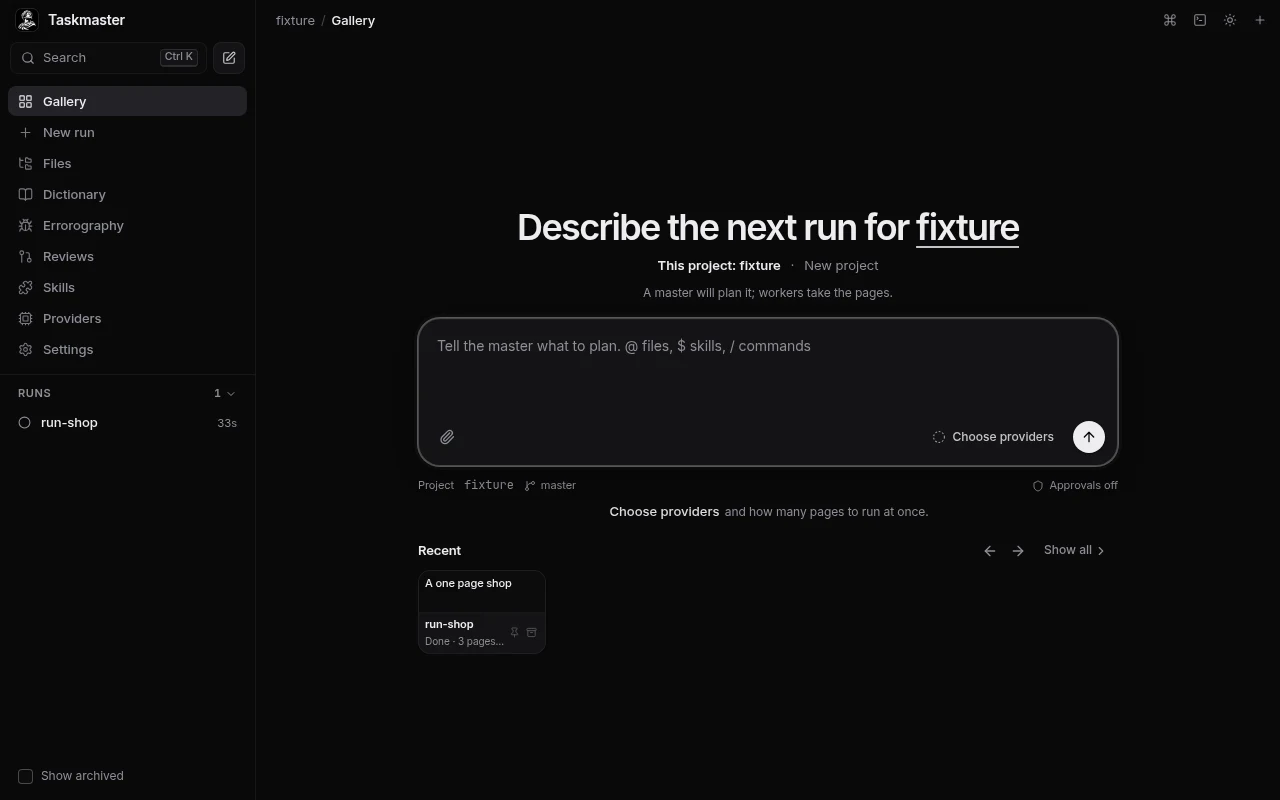
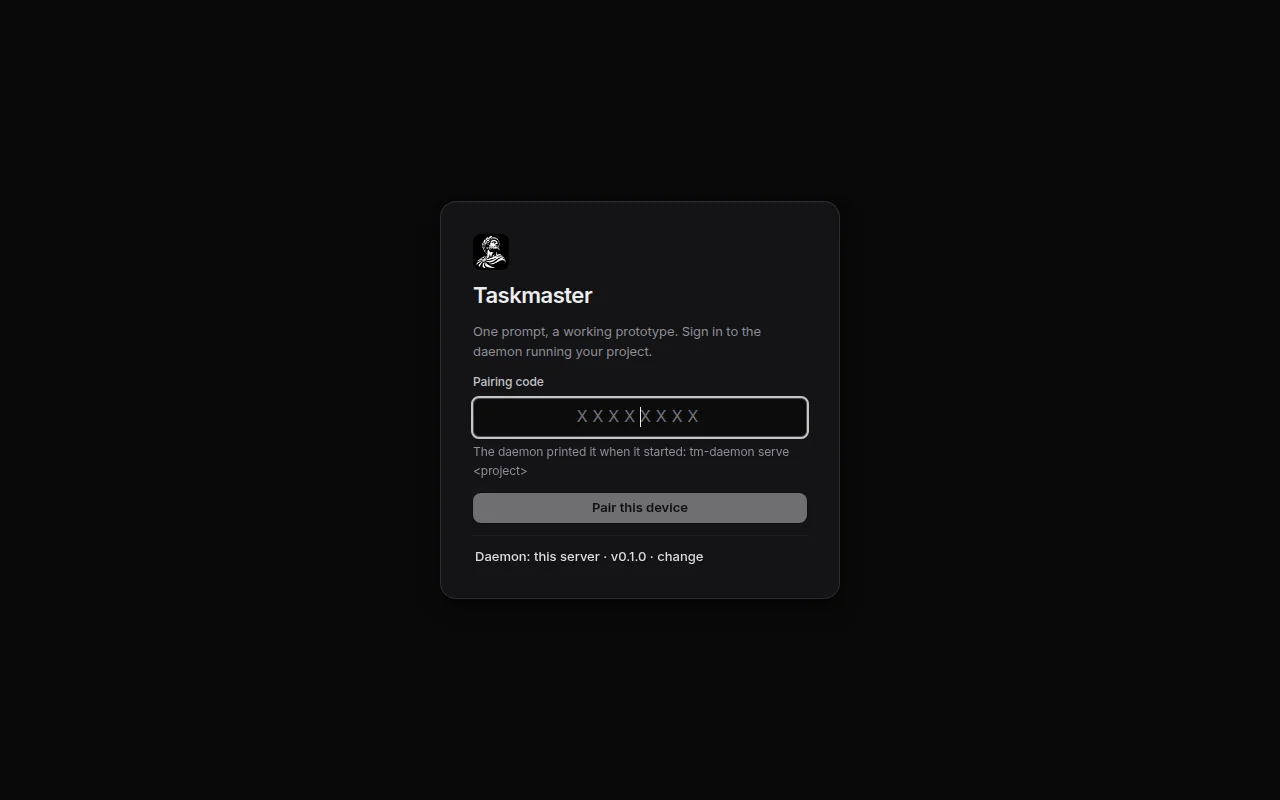
Docs: release dry run, Windows builds, current README hero
RELEASING.md documents the workflow_dispatch dry run (every desktop
target built, nothing published) and that Windows now builds: the
terminal is gated off with a clear message instead of a ConPTY backend,
and macOS is ad-hoc signed until Apple/Windows certificates are added.

README hero is a fresh screenshot of the current home screen.

diff --git a/docs/RELEASING.md b/docs/RELEASING.md
@@ -17,6 +17,14 @@ git push origin v0.2.0
 
 The version in the app comes from the tag (`v0.2.0` becomes `0.2.0`).
 
+## Dry run
+
+Run the workflow by hand (Actions > release > Run workflow) without pushing a tag. It builds
+every desktop target the same way a real release does and keeps them as workflow artifacts for a
+few days, but publishes nothing: no tag, no release, no `latest.json`. Choose the version and
+the targets (all, mac, linux, windows). This is how a macOS or Windows fix is checked before a
+tag is cut, and nothing is published until a `v*` tag is pushed.
+
 ## Secrets
 
 Set these under Settings, Secrets and variables, Actions. None of them are ever committed.
@@ -60,9 +68,14 @@ tm-daemon and restarts.
 
 ## What is not finished
 
-- **Windows.** tm-daemon uses POSIX process groups, PTYs and `/proc`, so it does not build for
-  Windows yet. The Windows job runs on every release so the gap stays visible, but it is
-  allowed to fail and does not block the other platforms.
+- **macOS and Windows signing.** Without the Apple or Windows certificates the installers are
+  still built: macOS is ad-hoc signed (Gatekeeper warns on first open) and Windows gates the
+  terminal off with a clear message instead of a ConPTY backend (SmartScreen warns until a
+  certificate is added). Add `APPLE_CERTIFICATE` / `WINDOWS_CERTIFICATE` and the other secrets
+  above to sign for real.
+- The desktop shell (`desktop/src-tauri`) is outside the Cargo workspace, because it needs
+  the system webview to compile. It is built only by this workflow. Locally, with the
+  [Tauri prerequisites](https://v2.tauri.app/start/prerequisites/) installed, build it with:
 - The desktop shell (`desktop/src-tauri`) is outside the Cargo workspace, because it needs
   the system webview to compile. It is built only by this workflow. Locally, with the
   [Tauri prerequisites](https://v2.tauri.app/start/prerequisites/) installed, build it with:
